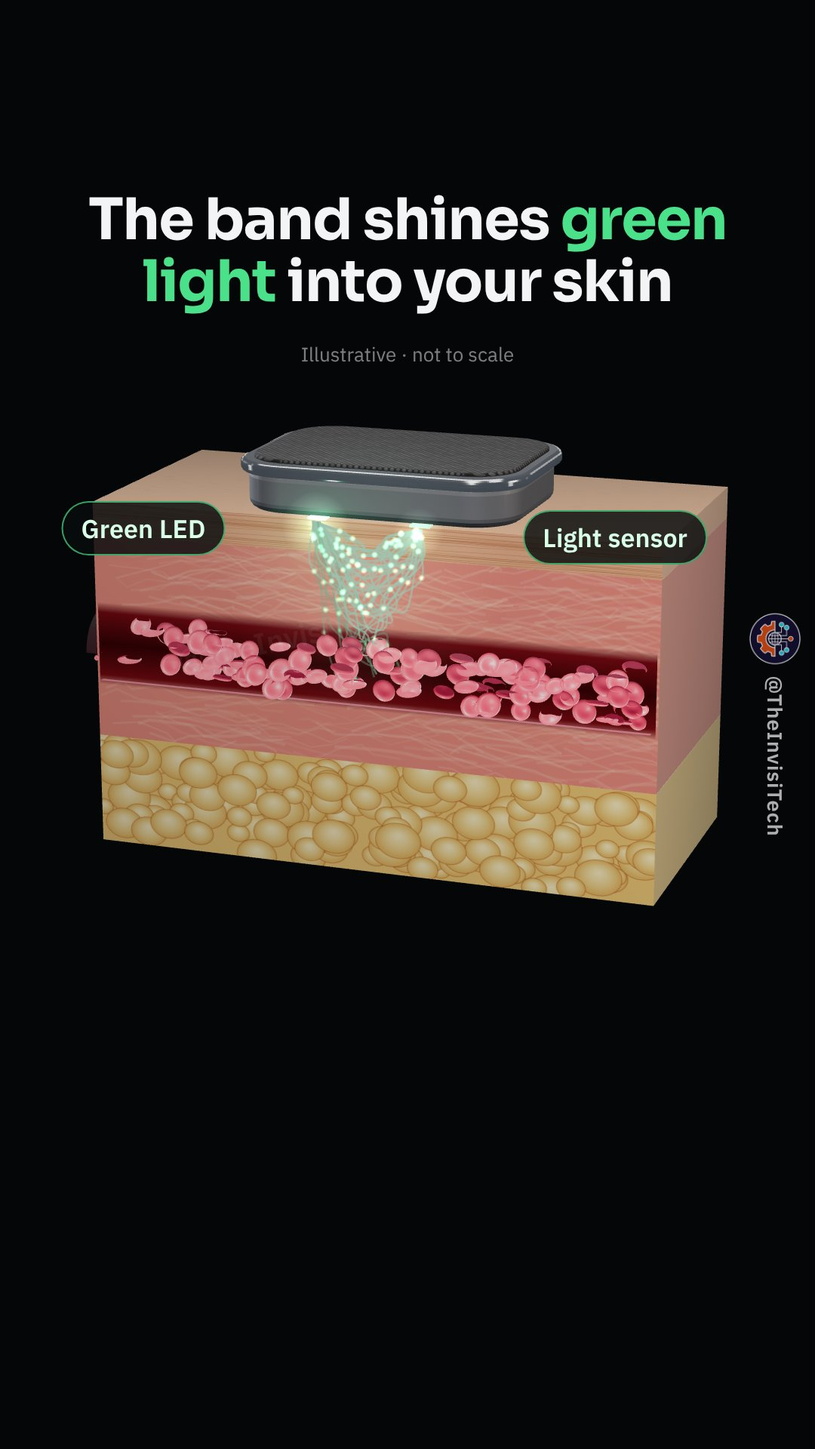
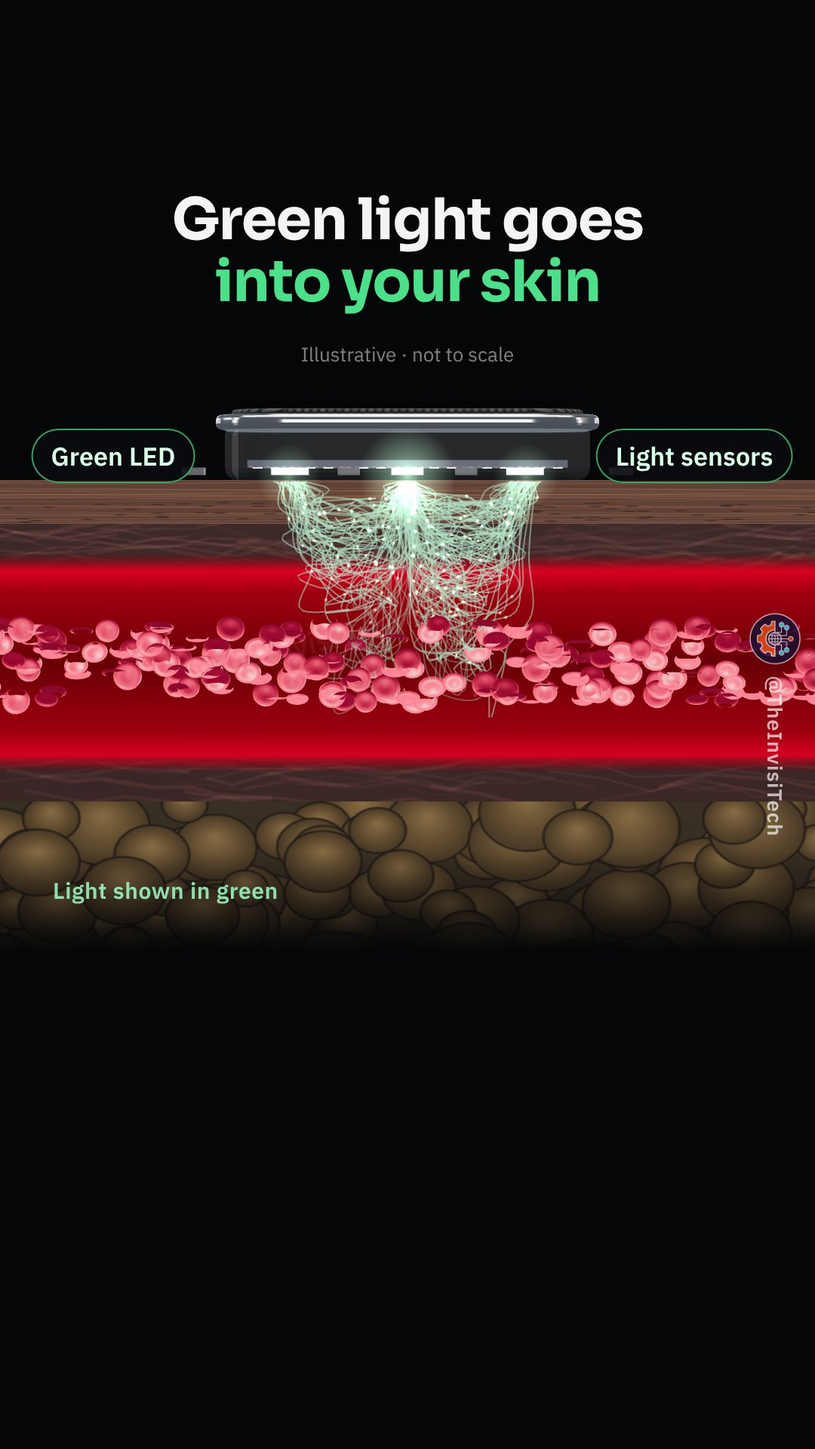
WHOOP pulse scene v2: side-on slice with dense green light, 26-readings flicker graph, beat-to-beat timing
Restyled after Harsh's reference (our own build): full-width dark tissue slice,
glass pod with navy sensor board, flicker graph with one dot per reading (26/s,
official), gaps between beats, phone heart rate. 5 stills for review.

Claude-Session: https://claude.ai/code/session_01GXcKc5WnFrVWBsHLe8YpAy

diff --git a/whoop-teardown/ppg-scene.html b/whoop-teardown/ppg-scene.html
@@ -3,20 +3,22 @@
 <link rel="preconnect" href="https://fonts.gstatic.com" crossorigin>
 <link rel="stylesheet" href="https://fonts.googleapis.com/css2?family=IBM+Plex+Mono:wght@400;500&family=IBM+Plex+Sans:wght@400;500;600&family=Sora:wght@500;600;700&display=swap">
 <style>
-/* 1080x1920 Short scene: how the band reads your pulse (green light -> blood -> dips -> heart rate). Reel safe zones: title 220-450, subject 450-1500, subtitles 1250-1450. */
+/* 1080x1920 Short scene: how the band reads your pulse. Side-on slice of the wrist, dense green light paths,
+   then the "flicker" signal (one dot per reading, 26 a second) and the timing between beats.
+   Reel safe zones: title 220-450, subject 450-1500 (kept above 1250 for subtitles), nothing right of 940 below 1100. */
 :root { --bg: #050607; --fg: #f2f4f6; --green: #4be08a; --red: #ff4d5e; --muted: #9aa4ad; --line: rgba(160,180,195,.18); color-scheme: dark; }
 html, body { margin: 0; height: 100%; background: var(--bg); overflow: hidden; }
-#stage { position: fixed; left: 50%; top: 50%; width: 1080px; height: 1920px; transform: translate(-50%, -50%) scale(var(--k, 1)); transform-origin: 50% 50%; background: var(--bg); overflow: hidden; font-family: "IBM Plex Sans", system-ui, sans-serif; color: var(--fg); }
+#stage { position: fixed; left: 50%; top: 50%; width: 1080px; height: 1920px; transform: translate(-50%, -50%) scale(var(--k, 1)); background: var(--bg); overflow: hidden; font-family: "IBM Plex Sans", system-ui, sans-serif; color: var(--fg); }
 #c { position: absolute; inset: 0; width: 1080px; height: 1920px; display: block; }
-#dim { position: absolute; inset: 0; background: rgba(4,5,6,.72); backdrop-filter: blur(10px); opacity: 0; }
+#fade { position: absolute; left: 0; right: 0; top: 1130px; height: 790px; background: linear-gradient(rgba(5,6,7,0), #050607 130px); }
+#dim { position: absolute; inset: 0; background: rgba(4,5,6,.86); opacity: 0; }
 #title { position: absolute; left: 80px; right: 80px; top: 250px; text-align: center; font: 700 76px/1.08 Sora, sans-serif; letter-spacing: -0.02em; text-wrap: balance; }
-#title em { font-style: normal; }
-#title .g { color: var(--green); } #title .r { color: var(--red); }
+#title em { font-style: normal; } #title .g { color: var(--green); } #title .r { color: var(--red); }
 #illus { position: absolute; left: 0; right: 0; top: 452px; text-align: center; font: 400 26px "IBM Plex Sans", sans-serif; color: rgba(220,226,232,.55); }
-.pill { position: absolute; left: 0; top: 0; padding: 12px 24px; border-radius: 999px; font: 600 34px "IBM Plex Sans", sans-serif; background: rgba(10,12,14,.82); border: 2px solid rgba(255,255,255,.18); white-space: nowrap; transform: translate(-50%, -50%); opacity: 0; }
+#legend { position: absolute; left: 70px; top: 1160px; font: 600 30px "IBM Plex Sans"; color: rgba(160,255,200,.85); letter-spacing: .02em; opacity: 0; }
+.pill { position: absolute; left: 0; top: 0; padding: 12px 24px; border-radius: 999px; font: 600 34px "IBM Plex Sans", sans-serif; background: rgba(10,12,14,.84); border: 2px solid rgba(255,255,255,.18); white-space: nowrap; transform: translate(-50%, -50%); opacity: 0; }
 .pill.g { border-color: rgba(75,224,138,.7); color: #d9ffe8; } .pill.r { border-color: rgba(255,77,94,.7); color: #ffe0e4; }
-#graph { position: absolute; left: 70px; top: 1070px; width: 830px; height: 176px; border-radius: 24px; background: rgba(10,12,14,.86); border: 2px solid var(--line); opacity: 0; }
-#graph canvas { position: absolute; inset: 0; }
+#gc { position: absolute; left: 40px; top: 520px; width: 920px; height: 720px; opacity: 0; }
 #phone { position: absolute; left: 330px; top: 500px; width: 420px; height: 730px; border-radius: 56px; background: #0b0d10; border: 3px solid #2a2f35; box-shadow: 0 30px 80px rgba(0,0,0,.6), inset 0 0 0 8px #050607; opacity: 0; overflow: hidden; }
 #phone .notch { position: absolute; left: 50%; top: 22px; width: 120px; height: 30px; margin-left: -60px; border-radius: 20px; background: #000; }
 #phone .lbl { position: absolute; left: 40px; top: 96px; font: 500 28px "IBM Plex Sans"; color: var(--muted); }
@@ -34,21 +36,22 @@ body.zones #zones { display: block; }
 </style>
 
 <div id="stage">
-  <canvas id="c" aria-label="Cutaway of a wrist under a fitness band: green light enters the skin, blood absorbs some of it, and the light that returns dips with every heartbeat."></canvas>
+  <canvas id="c" aria-label="Side view of a wrist under a fitness band: green light fans into the skin, blood absorbs some of it, and the returning light flickers with every heartbeat."></canvas>
+  <div id="fade"></div>
   <div id="dim"></div>
   <div id="title"></div>
   <div id="illus">Illustrative · not to scale</div>
+  <div id="legend">Light shown in green</div>
   <div class="pill g" id="pLed">Green LED</div>
-  <div class="pill g" id="pPd">Light sensor</div>
+  <div class="pill g" id="pPd">Light sensors</div>
   <div class="pill r" id="pArt">Blood vessel</div>
-  <div class="pill r" id="pCell">Red blood cells</div>
-  <div id="graph"><canvas id="gc" width="830" height="176"></canvas></div>
+  <canvas id="gc" width="920" height="720"></canvas>
   <div id="phone">
     <div class="notch"></div>
     <div class="lbl">Heart rate</div>
-    <div class="bpm" id="bpm">72</div>
+    <div class="bpm">72</div>
     <div class="unit">beats per minute</div>
-    <svg class="heart" viewBox="0 0 24 24"><path id="heartPath" fill="#ff4d5e" d="M12 21s-7.5-4.6-9.6-9.2C.9 8.4 3 4.8 6.6 4.8c2.1 0 3.6 1.2 5.4 3.3 1.8-2.1 3.3-3.3 5.4-3.3 3.6 0 5.7 3.6 4.2 7-2.1 4.6-9.6 9.2-9.6 9.2z"/></svg>
+    <svg class="heart" viewBox="0 0 24 24"><path fill="#ff4d5e" d="M12 21s-7.5-4.6-9.6-9.2C.9 8.4 3 4.8 6.6 4.8c2.1 0 3.6 1.2 5.4 3.3 1.8-2.1 3.3-3.3 5.4-3.3 3.6 0 5.7 3.6 4.2 7-2.1 4.6-9.6 9.2-9.6 9.2z"/></svg>
     <canvas id="pc" width="372" height="170"></canvas>
     <div class="foot">One dip in the light = one heartbeat. Dips per minute = your heart rate.</div>
   </div>
@@ -72,18 +75,17 @@ const stageEl = document.getElementById('stage');
 function fit() { stageEl.style.setProperty('--k', Math.min(innerWidth / W, innerHeight / H)); }
 addEventListener('resize', fit); fit();
 
-/* ---------------- renderer + scene (dark, key + rim lights) ---------------- */
+/* ---------------- renderer + scene: dark, key + rim lights ---------------- */
 const canvas = document.getElementById('c');
 const renderer = new THREE.WebGLRenderer({ canvas, antialias: true, preserveDrawingBuffer: RENDER });
 renderer.setPixelRatio(1); renderer.setSize(W, H, false);
 renderer.outputEncoding = THREE.sRGBEncoding; renderer.toneMapping = THREE.ACESFilmicToneMapping; renderer.toneMappingExposure = 1.0;
-const scene = new THREE.Scene(); scene.background = new THREE.Color(0x050607); scene.fog = new THREE.Fog(0x050607, 260, 520);
+const scene = new THREE.Scene(); scene.background = new THREE.Color(0x050607);
 const camera = new THREE.PerspectiveCamera(30, W / H, 1, 2000);
-const key = new THREE.SpotLight(0xfff1e0, 1.6, 0, 0.5, 0.9, 0); key.position.set(30, 260, 160); key.target.position.set(0, -6, 0); scene.add(key, key.target);
-const rim = new THREE.DirectionalLight(0xcfe0ff, 0.9); rim.position.set(-250, 40, -120); scene.add(rim);
-const rim2 = new THREE.DirectionalLight(0xffd2a8, 0.5); rim2.position.set(260, 30, -40); scene.add(rim2);
-const front = new THREE.DirectionalLight(0xffffff, 0.35); front.position.set(40, 30, 300); scene.add(front);
-const ledLight = new THREE.PointLight(0x2cff74, 0, 30, 2); scene.add(ledLight);
+const key = new THREE.SpotLight(0xfff1e0, 1.3, 0, 0.5, 0.9, 0); key.position.set(20, 260, 140); key.target.position.set(0, -10, 0); scene.add(key, key.target);
+const rim = new THREE.DirectionalLight(0xcfe0ff, 0.8); rim.position.set(-250, 60, -100); scene.add(rim);
+const rim2 = new THREE.DirectionalLight(0xffd2a8, 0.45); rim2.position.set(260, 40, -40); scene.add(rim2);
+const front = new THREE.DirectionalLight(0xffffff, 0.22); front.position.set(0, 20, 300); scene.add(front);
 (function env() {
   const es = new THREE.Scene(); es.add(new THREE.Mesh(new THREE.BoxGeometry(120, 70, 120), new THREE.MeshBasicMaterial({ color: 0x15181c, side: THREE.BackSide })));
   const panel = (w, h, k, x, y, z, ry = 0, rx = 0) => { const m = new THREE.Mesh(new THREE.PlaneGeometry(w, h), new THREE.MeshBasicMaterial({ color: new THREE.Color(0xffffff).multiplyScalar(k), side: THREE.DoubleSide })); m.position.set(x, y, z); m.rotation.set(rx, ry, 0); es.add(m); };
@@ -103,121 +105,145 @@ const clamp01 = t => Math.min(1, Math.max(0, t));
 const ease = t => t < 0.5 ? 4 * t * t * t : 1 - Math.pow(-2 * t + 2, 3) / 2;
 const glowTex = canvasTex(128, 128, (x, w, h) => { const g = x.createRadialGradient(64, 64, 0, 64, 64, 64); g.addColorStop(0, 'rgba(255,255,255,1)'); g.addColorStop(0.25, 'rgba(255,255,255,.55)'); g.addColorStop(1, 'rgba(255,255,255,0)'); x.fillStyle = g; x.fillRect(0, 0, w, h); });
 
-/* ---------------- skin cutaway block: cut face at z = 0 faces the camera ---------------- */
-const BX = 72, BZ = 34, EPI = 4, DER = 30, FAT = 44;   // layer depths (illustrative)
+/* ---------------- skin slice (dark, muted tissue so the green light reads) ---------------- */
+const BX = 110, BZ = 30, EPI = 4, DER = 30, FAT = 52;   // layer depths (illustrative)
 function layerTex(kind) {
   return canvasTex(1024, 256, (x, w, h) => {
     const r = rng(kind.length * 7);
-    if (kind === 'epi') { x.fillStyle = '#b98163'; x.fillRect(0, 0, w, h); for (let i = 0; i < 26; i++) { x.strokeStyle = `rgba(${90 + r() * 40},${50 + r() * 20},${35},.35)`; x.lineWidth = 2 + r() * 3; x.beginPath(); const y = r() * h; x.moveTo(0, y); for (let k = 0; k <= 16; k++) x.lineTo(k * w / 16, y + Math.sin(k * 0.9 + i) * 6); x.stroke(); } }
-    if (kind === 'der') { x.fillStyle = '#b8645c'; x.fillRect(0, 0, w, h); for (let i = 0; i < 260; i++) { x.strokeStyle = `rgba(${230},${170 + r() * 30},${160},${(.08 + r() * .12).toFixed(2)})`; x.lineWidth = 1.5 + r() * 2.5; x.beginPath(); let px = r() * w, py = r() * h; x.moveTo(px, py); for (let k = 0; k < 6; k++) { px += 20 + r() * 40; py += (r() - .5) * 26; x.lineTo(px, py); } x.stroke(); } }
-    if (kind === 'fat') { x.fillStyle = '#c99a4c'; x.fillRect(0, 0, w, h); for (let i = 0; i < 160; i++) { const cx = r() * w, cy = r() * h, rr = 18 + r() * 26; const g = x.createRadialGradient(cx, cy - rr * .3, 2, cx, cy, rr); g.addColorStop(0, '#f2d58a'); g.addColorStop(1, '#b8873c'); x.fillStyle = g; x.beginPath(); x.arc(cx, cy, rr, 0, 7); x.fill(); x.strokeStyle = 'rgba(120,70,30,.5)'; x.lineWidth = 2; x.stroke(); } }
+    if (kind === 'epi') { x.fillStyle = '#5a3e33'; x.fillRect(0, 0, w, h); for (let i = 0; i < 30; i++) { x.strokeStyle = `rgba(${130 + r() * 40},${95 + r() * 20},80,.35)`; x.lineWidth = 2 + r() * 3; x.beginPath(); const y = r() * h; x.moveTo(0, y); for (let k = 0; k <= 16; k++) x.lineTo(k * w / 16, y + Math.sin(k * 0.9 + i) * 6); x.stroke(); }
+      for (let i = 0; i < 120; i++) { x.fillStyle = 'rgba(30,20,18,.5)'; x.beginPath(); x.ellipse(r() * w, h * (.5 + r() * .5), 6, 3, 0, 0, 7); x.fill(); } }
+    if (kind === 'der') { x.fillStyle = '#3e2626'; x.fillRect(0, 0, w, h); for (let i = 0; i < 300; i++) { x.strokeStyle = `rgba(170,120,115,${(.06 + r() * .1).toFixed(2)})`; x.lineWidth = 1.5 + r() * 2.5; x.beginPath(); let px = r() * w, py = r() * h; x.moveTo(px, py); for (let k = 0; k < 6; k++) { px += 20 + r() * 40; py += (r() - .5) * 26; x.lineTo(px, py); } x.stroke(); } }
+    if (kind === 'fat') { x.fillStyle = '#3b3122'; x.fillRect(0, 0, w, h); for (let i = 0; i < 160; i++) { const cx = r() * w, cy = r() * h, rr = 18 + r() * 26; const g = x.createRadialGradient(cx, cy - rr * .3, 2, cx, cy, rr); g.addColorStop(0, '#7a6440'); g.addColorStop(1, '#4a3a22'); x.fillStyle = g; x.beginPath(); x.arc(cx, cy, rr, 0, 7); x.fill(); x.strokeStyle = 'rgba(20,14,8,.6)'; x.lineWidth = 2; x.stroke(); } }
   });
 }
-const skinTop = canvasTex(512, 512, (x, w, h) => { const r = rng(4); x.fillStyle = '#9c6a4f'; x.fillRect(0, 0, w, h); for (let i = 0; i < 3000; i++) { x.fillStyle = `rgba(70,40,26,${(r() * .18).toFixed(3)})`; x.beginPath(); x.arc(r() * w, r() * h, .6 + r(), 0, 7); x.fill(); } for (let i = 0; i < 70; i++) { x.strokeStyle = 'rgba(40,24,15,.35)'; x.lineWidth = 1; x.beginPath(); const px = r() * w, py = r() * h; x.moveTo(px, py); x.quadraticCurveTo(px + 14, py + (r() - .5) * 8, px + 30 + r() * 20, py + (r() - .5) * 10); x.stroke(); } });
+const skinTop = canvasTex(512, 512, (x, w, h) => { const r = rng(4); x.fillStyle = '#7a5442'; x.fillRect(0, 0, w, h); for (let i = 0; i < 3000; i++) { x.fillStyle = `rgba(50,30,20,${(r() * .2).toFixed(3)})`; x.beginPath(); x.arc(r() * w, r() * h, .6 + r(), 0, 7); x.fill(); } });
 skinTop.wrapS = skinTop.wrapT = THREE.RepeatWrapping; skinTop.repeat.set(4, 2);
 function layer(y0, y1, tex, color, top) {
-  const face = new THREE.MeshPhysicalMaterial({ map: tex, roughness: 0.55, clearcoat: 0.35, clearcoatRoughness: 0.4, sheen: new THREE.Color(0x401010) });
-  const side = new THREE.MeshStandardMaterial({ color, roughness: 0.7 });
-  const topM = top ? new THREE.MeshPhysicalMaterial({ map: skinTop, roughness: 0.5, clearcoat: 0.15, sheen: new THREE.Color(0x2a1208) }) : side;
+  const face = new THREE.MeshStandardMaterial({ map: tex, roughness: 0.75 });
+  const side = new THREE.MeshStandardMaterial({ color, roughness: 0.8 });
+  const topM = top ? new THREE.MeshPhysicalMaterial({ map: skinTop, roughness: 0.5, clearcoat: 0.15 }) : side;
   const m = new THREE.Mesh(new THREE.BoxGeometry(BX, y0 - y1, BZ), [side, side, topM, side, face, side]);
   m.position.set(0, (y0 + y1) / 2, -BZ / 2); scene.add(m); return m;
 }
-layer(0, -EPI, layerTex('epi'), 0x8e5a40, true);
-layer(-EPI, -DER, layerTex('der'), 0x7a3a34, false);
-layer(-DER, -FAT, layerTex('fat'), 0x8c6a30, false);
+layer(0, -EPI, layerTex('epi'), 0x3a281f, true);
+layer(-EPI, -DER, layerTex('der'), 0x2a1818, false);
+layer(-DER, -FAT, layerTex('fat'), 0x2a2216, false);
 
-/* ---------------- blood vessel (cut open along the face) + capillaries ---------------- */
-const ART = { y: -18, r: 4.6 };
-const artWall = new THREE.Mesh(new THREE.CylinderGeometry(1, 1, BX - 1.5, 48, 1, true, 0, Math.PI), new THREE.MeshPhysicalMaterial({ color: 0x9a1422, roughness: 0.3, clearcoat: 0.8, transparent: true, opacity: 0.22, side: THREE.DoubleSide, depthWrite: false }));
-artWall.rotation.z = Math.PI / 2; artWall.rotation.y = 0; artWall.position.set(0, ART.y, 0); scene.add(artWall);
-const artBack = new THREE.Mesh(new THREE.CylinderGeometry(1, 1, BX - 1.5, 48, 1, true, Math.PI, Math.PI), new THREE.MeshStandardMaterial({ color: 0x4a0a12, roughness: 0.6, side: THREE.BackSide }));
-artBack.rotation.z = Math.PI / 2; artBack.position.set(0, ART.y, 0); scene.add(artBack);
-// vessel channel painted on the cut face (dark red lumen with soft edges); swells with each beat
-const chanTex = canvasTex(16, 256, (x, w, h) => { const g = x.createLinearGradient(0, 0, 0, h); g.addColorStop(0, 'rgba(90,6,16,0)'); g.addColorStop(0.12, 'rgba(110,8,20,.95)'); g.addColorStop(0.5, 'rgba(70,4,12,1)'); g.addColorStop(0.88, 'rgba(110,8,20,.95)'); g.addColorStop(1, 'rgba(90,6,16,0)'); x.fillStyle = g; x.fillRect(0, 0, w, h); });
-const chan = new THREE.Mesh(new THREE.PlaneGeometry(BX - 0.6, 2), new THREE.MeshBasicMaterial({ map: chanTex, transparent: true, depthWrite: false })); chan.position.set(0, ART.y, 0.03); scene.add(chan);
-// red blood cells: biconcave discs flowing along the vessel
+/* ---------------- blood vessel: bright red band across the slice, packed with cells ---------------- */
+const ART = { y: -17, r: 4.4 };
+const chanTex = canvasTex(16, 256, (x, w, h) => { const g = x.createLinearGradient(0, 0, 0, h); g.addColorStop(0, 'rgba(120,10,20,0)'); g.addColorStop(0.08, 'rgba(200,30,40,1)'); g.addColorStop(0.18, 'rgba(150,14,26,1)'); g.addColorStop(0.5, 'rgba(110,8,18,1)'); g.addColorStop(0.82, 'rgba(150,14,26,1)'); g.addColorStop(0.92, 'rgba(200,30,40,1)'); g.addColorStop(1, 'rgba(120,10,20,0)'); x.fillStyle = g; x.fillRect(0, 0, w, h); });
+const chan = new THREE.Mesh(new THREE.PlaneGeometry(BX - 0.4, 2), new THREE.MeshBasicMaterial({ map: chanTex, transparent: true, depthWrite: false })); chan.position.set(0, ART.y, 0.03); scene.add(chan);
 const prof = []; for (let i = 0; i <= 14; i++) { const r = i / 14; prof.push(new THREE.Vector2(r, Math.sqrt(Math.max(0, 1 - r * r)) * (0.18 + 0.85 * r * r - 0.55 * r ** 4) * 0.55)); }
 for (let i = 14; i >= 0; i--) { const r = i / 14; prof.push(new THREE.Vector2(r, -Math.sqrt(Math.max(0, 1 - r * r)) * (0.18 + 0.85 * r * r - 0.55 * r ** 4) * 0.55)); }
-const cellGeo = new THREE.LatheGeometry(prof, 28); cellGeo.computeVertexNormals();
-const NCELL = 130;
-const cells = new THREE.InstancedMesh(cellGeo, new THREE.MeshPhysicalMaterial({ color: 0xb0101c, roughness: 0.38, clearcoat: 0.6, clearcoatRoughness: 0.25, emissive: 0x200105, envMapIntensity: 0.5 }), NCELL);
+const cellGeo = new THREE.LatheGeometry(prof, 24); cellGeo.computeVertexNormals();
+const NCELL = 260;
+const cells = new THREE.InstancedMesh(cellGeo, new THREE.MeshPhysicalMaterial({ color: 0x9a0c18, roughness: 0.45, clearcoat: 0.3, clearcoatRoughness: 0.4, emissive: 0x2a0206, envMapIntensity: 0.35 }), NCELL);
 scene.add(cells);
-const rCell = rng(55), CELL = [...Array(NCELL)].map(() => ({ x: rCell() * BX - BX / 2, a: rCell() * 6.283, rr: Math.sqrt(rCell()), ax: rCell() * 6.28, ay: rCell() * 6.28, sp: 0.8 + rCell() * 0.5, s: 0.95 + rCell() * 0.3 }));
+const rCell = rng(55), CELL = [...Array(NCELL)].map(() => ({ x: rCell() * BX - BX / 2, v: rCell() * 2 - 1, z: rCell(), ax: rCell() * 6.28, ay: rCell() * 6.28, sp: 0.8 + rCell() * 0.5, s: 0.9 + rCell() * 0.3 }));
 const _m = new THREE.Matrix4(), _q = new THREE.Quaternion(), _e = new THREE.Euler(), _p = new THREE.Vector3(), _s = new THREE.Vector3();
 
-/* ---------------- the pod sitting on the skin (front edge on the cut face) ---------------- */
-const pod = new THREE.Group(); pod.position.set(0, 0, -12.6); scene.add(pod);
+/* ---------------- the pod, in glass, showing its navy sensor board (layout illustrative) ---------------- */
+const pod = new THREE.Group(); pod.position.set(0, 0, -11); scene.add(pod);
 const chrome = new THREE.MeshStandardMaterial({ color: 0xeef0f2, metalness: 1, roughness: 0.1 });
+const glassM = new THREE.MeshPhysicalMaterial({ color: 0x9fb8c8, roughness: 0.1, metalness: 0, transparent: true, opacity: 0.16, depthWrite: false, clearcoat: 1 });
+const body = new THREE.Mesh(pillow(34.7, 22, 6, 5.4, 1.2), glassM); body.position.y = 2.7; pod.add(body);
+const rimm = new THREE.Mesh(pillow(36.4, 23.6, 6.8, 1.4, 0.55), chrome); rimm.position.y = 5.5; pod.add(rimm);
 const knitT = canvasTex(256, 256, (x, w, h) => { x.fillStyle = '#060607'; x.fillRect(0, 0, w, h); const r = rng(13), n = 8, c = w / n; for (let j = 0; j < n * 2; j++) for (let i = -1; i <= n; i++) { const l = 44 + r() * 14; x.fillStyle = `rgb(${l},${l},${l + 2})`; x.beginPath(); x.ellipse((i + (j % 2) * .5 + .5) * c, (j + .5) * c / 2, c * .36, c * .3, 0, 0, 7); x.fill(); } });
 knitT.wrapS = knitT.wrapT = THREE.RepeatWrapping; knitT.repeat.set(1 / 6, 1 / 6);
-const podBody = new THREE.Mesh(pillow(34.7, 24, 6, 5.2, 1.2), new THREE.MeshPhysicalMaterial({ color: 0x141518, roughness: 0.6, clearcoat: 0.2 })); podBody.position.y = 2.6; pod.add(podBody);
-const rim2m = new THREE.Mesh(pillow(36.6, 25.9, 6.8, 1.6, 0.6), chrome); rim2m.position.y = 5.4; pod.add(rim2m);
-const knit = new THREE.Mesh(pillow(33.6, 22.8, 5.6, 1.0, 0.35), new THREE.MeshPhysicalMaterial({ map: knitT, roughness: 0.9 })); knit.position.y = 6.15; pod.add(knit);
-// LED + light sensor windows on the underside, at the front edge (illustrative positions)
-const LED = new THREE.Vector3(-6.5, 0.05, -0.6), PD = new THREE.Vector3(6.5, 0.05, -0.6);
-const ledDie = new THREE.Mesh(new THREE.BoxGeometry(2.4, 0.3, 1.2), new THREE.MeshStandardMaterial({ color: 0x0a1a0e, emissive: 0x2cff74, emissiveIntensity: 0 })); ledDie.position.copy(LED); scene.add(ledDie);
-const pdDie = new THREE.Mesh(new THREE.BoxGeometry(2.6, 0.3, 1.2), new THREE.MeshStandardMaterial({ color: 0x1d1f3c, metalness: 0.5, roughness: 0.2, emissive: 0x2cff74, emissiveIntensity: 0 })); pdDie.position.copy(PD); scene.add(pdDie);
+const knit = new THREE.Mesh(pillow(33.4, 21, 5.6, 1.0, 0.35), new THREE.MeshPhysicalMaterial({ map: knitT, roughness: 0.9 })); knit.position.y = 6.2; pod.add(knit);
+const navyT = canvasTex(512, 64, (x, w, h) => { x.fillStyle = '#0a1638'; x.fillRect(0, 0, w, h); x.fillStyle = '#d9ae55'; for (let i = 0; i < 40; i++) x.fillRect(i * 13 + 3, h - 6, 7, 4); });
+const board = new THREE.Mesh(new THREE.BoxGeometry(30, 0.7, 18), new THREE.MeshPhysicalMaterial({ map: navyT, roughness: 0.4, clearcoat: 0.6 })); board.position.y = 1.55; pod.add(board);
+const chip = (x, w, mat) => { const m = new THREE.Mesh(new THREE.BoxGeometry(w, 0.7, 3), mat); m.position.set(x, 0.85, 9); pod.add(m); return m; };
+const LEDX = 0, PDX = [-11, 11];
+const ledMat = new THREE.MeshStandardMaterial({ color: 0x0a1a0e, emissive: 0x2cff74, emissiveIntensity: 0 });
+const pdMat = new THREE.MeshStandardMaterial({ color: 0x1d1f3c, metalness: 0.5, roughness: 0.2, emissive: 0x2cff74, emissiveIntensity: 0 });
+chip(LEDX, 3, ledMat); PDX.forEach(x => chip(x, 3.4, pdMat));
+[-20, -5.5, 5.5, 20].forEach(x => chip(x, 2, new THREE.MeshStandardMaterial({ color: 0x0c0d10, roughness: 0.4 })));
+for (let i = 0; i < 18; i++) { const g = new THREE.Mesh(new THREE.BoxGeometry(0.9, 0.12, 0.6), new THREE.MeshStandardMaterial({ color: 0xd9ae55, metalness: 1, roughness: 0.25 })); g.position.set(-14 + i * 1.65, 1.15, 9.5); pod.add(g); }
 const glow = (color, size) => { const s = new THREE.Sprite(new THREE.SpriteMaterial({ map: glowTex, color, transparent: true, blending: THREE.AdditiveBlending, depthWrite: false, depthTest: false })); s.scale.set(size, size, 1); scene.add(s); return s; };
-const ledGlow = glow(0x1cff5e, 8); ledGlow.position.set(LED.x, -0.6, 0.4);
-const pdGlow = glow(0x1cff5e, 6); pdGlow.position.set(PD.x, -0.6, 0.4);
-const skinGlow = glow(0x1cff5e, 34); skinGlow.position.set(0, -6, 0.3); skinGlow.material.opacity = 0;
+const ledGlow = glow(0x1cff5e, 9); ledGlow.position.set(LEDX, 0.4, 0.5);
+const pdGlows = PDX.map(x => { const g = glow(0x1cff5e, 6); g.position.set(x, 0.4, 0.5); return g; });
 
-/* ---------------- light paths: "banana" random walks from the LED to the sensor ---------------- */
+/* ---------------- light paths: dense scattering walks from the LED to the sensors ---------------- */
 const rP = rng(7), PATHS = [];
-for (let i = 0; i < 46; i++) {
-  const deep = rP(), D = 3 + deep * deep * 17, absorbed = D > 13 && rP() < 0.85;
-  const pts = [new THREE.Vector3(LED.x + (rP() - .5), -0.2, 0.3)];
-  const n = 7; for (let k = 1; k < n; k++) { const a = k / n, xx = LED.x + (PD.x - LED.x) * a + (rP() - .5) * 5, yy = -D * Math.sin(a * Math.PI) * (0.85 + rP() * .3) - 0.3; pts.push(new THREE.Vector3(xx, yy, 0.3)); }
-  if (absorbed) { pts.length = 4 + Math.floor(rP() * 2); pts.push(new THREE.Vector3(pts[pts.length - 1].x + (rP() - .5) * 3, ART.y + (rP() - .5) * 2, 0.4)); }
-  else pts.push(new THREE.Vector3(PD.x + (rP() - .5), -0.2, 0.3));
+for (let i = 0; i < 150; i++) {
+  const side = rP() < 0.5 ? 0 : 1, tx = PDX[side] + (rP() - .5) * 3, deep = rP(), D = 2.5 + Math.pow(deep, 1.4) * 19;
+  const absorbed = D > ART.y * -1 - ART.r - 1 && rP() < 0.8;
+  const pts = [new THREE.Vector3(LEDX + (rP() - .5) * 1.5, -0.1, 0.3)], n = 11;
+  for (let k = 1; k < n; k++) { const a = k / n, jit = 0.6 + 1.6 * Math.sin(a * Math.PI);
+    pts.push(new THREE.Vector3(LEDX + (tx - LEDX) * a + (rP() - .5) * 3 * jit, -D * Math.pow(Math.sin(a * Math.PI), 0.8) * (0.85 + rP() * .3) - 0.2 + (rP() - .5) * jit, 0.3)); }
+  if (absorbed) { const k = 5 + Math.floor(rP() * 2); pts.length = k; pts.push(new THREE.Vector3(pts[k - 1].x + (rP() - .5) * 2, ART.y + ART.r * (rP() * .8), 0.35)); }
+  else pts.push(new THREE.Vector3(tx, -0.1, 0.3));
   const curve = new THREE.CatmullRomCurve3(pts), len = curve.getLength();
-  const line = new THREE.Mesh(new THREE.TubeGeometry(curve, 60, 0.13, 5), new THREE.MeshBasicMaterial({ color: absorbed ? 0x169a4c : 0x3dff86, transparent: true, opacity: 0, depthWrite: false }));
-  scene.add(line);
-  PATHS.push({ curve, len, absorbed, line, ph: rP(), sp: 12 + rP() * 8 });
+  const tube = new THREE.Mesh(new THREE.TubeGeometry(curve, 80, 0.07, 4), new THREE.MeshBasicMaterial({ color: 0x35ff7a, transparent: true, opacity: 0, depthWrite: false }));
+  scene.add(tube);
+  PATHS.push({ curve, len, absorbed, tube, ph: rP(), sp: 14 + rP() * 10 });
 }
-const NPH = PATHS.length * 2;
+const NPH = PATHS.length;
 const phGeo = new THREE.BufferGeometry(); phGeo.setAttribute('position', new THREE.Float32BufferAttribute(new Float32Array(NPH * 3), 3)); phGeo.setAttribute('color', new THREE.Float32BufferAttribute(new Float32Array(NPH * 3), 3));
-const photons = new THREE.Points(phGeo, new THREE.PointsMaterial({ size: 3.2, map: glowTex, vertexColors: true, transparent: true, blending: THREE.AdditiveBlending, depthWrite: false, sizeAttenuation: true }));
-scene.add(photons);
+scene.add(new THREE.Points(phGeo, new THREE.PointsMaterial({ size: 1.6, map: glowTex, vertexColors: true, transparent: true, blending: THREE.AdditiveBlending, depthWrite: false })));
 
-/* ---------------- heartbeat ---------------- */
-const PERIOD = 60 / 72;
-function beat(t) { const ph = ((t % PERIOD) + PERIOD) % PERIOD / PERIOD; return Math.exp(-Math.pow((ph - 0.14) / 0.075, 2)) + 0.35 * Math.exp(-Math.pow((ph - 0.42) / 0.09, 2)); }
-const blood = t => 0.5 * beat(t) + 0.5 * beat(t - 0.05);     // blood volume under the sensor (smoothed)
-const lightBack = t => 1 - 0.55 * blood(t);                  // reflected light: dips at every beat
+/* ---------------- heartbeat with natural beat-to-beat variation ---------------- */
+const IBI = [0.83, 0.80, 0.86, 0.82, 0.79, 0.85, 0.81, 0.84];   // seconds between beats (example values)
+const BEATS = []; { let tb = -4; for (let i = 0; tb < 60; i++) { BEATS.push(tb); tb += IBI[i % IBI.length]; } }
+function beatIdx(t) { let i = 0; while (i < BEATS.length - 2 && BEATS[i + 1] <= t) i++; return i; }
+function beat(t) { const i = beatIdx(t), ph = (t - BEATS[i]) / (BEATS[i + 1] - BEATS[i]); return Math.exp(-Math.pow((ph - 0.14) / 0.075, 2)) + 0.35 * Math.exp(-Math.pow((ph - 0.42) / 0.09, 2)); }
+const blood = t => 0.5 * beat(t) + 0.5 * beat(t - 0.05);
+const lightBack = t => 1 - 0.55 * blood(t);
+const troughAt = i => BEATS[i] + 0.14 * (BEATS[i + 1] - BEATS[i]) + 0.025;   // where the reflected light is lowest
+const SPS = 26;   // readings per second (WHOOP, official)
 
 /* ---------------- overlay ---------------- */
 const $ = id => document.getElementById(id);
-const PILLS = { pLed: [LED.x - 1, -2, 0.4], pPd: [PD.x + 1, -2, 0.4], pArt: [-22, ART.y + 3, 2.4], pCell: [14, ART.y - 3, 2.6] };
-const PILL_OFF = { pLed: [-250, -10], pPd: [250, -10], pArt: [-30, -120], pCell: [20, 140] };
+const PILLS = { pLed: [-19, 3, 0.4], pPd: [19, 3, 0.4], pArt: [-19, ART.y, 1] };
+const PILL_OFF = { pLed: [-120, 10], pPd: [130, 10], pArt: [0, 0] };
 function placePills(alpha) {
   for (const id in PILLS) { const v = new THREE.Vector3(...PILLS[id]).project(camera); const el = $(id);
     const x = (v.x * .5 + .5) * W + PILL_OFF[id][0], y = (-v.y * .5 + .5) * H + PILL_OFF[id][1];
-    el.style.left = Math.min(Math.max(x, 190), 860) + 'px'; el.style.top = y + 'px'; el.style.opacity = (alpha[id] || 0).toFixed(3); }
+    el.style.left = Math.min(Math.max(x, 150), 920) + 'px'; el.style.top = y + 'px'; el.style.opacity = (alpha[id] || 0).toFixed(3); }
 }
-function drawWave(cv, t, span, col, opts = {}) {
-  const x = cv.getContext('2d'), w = cv.width, h = cv.height; x.clearRect(0, 0, w, h);
-  const pad = opts.pad || 0, top = opts.top || 20, bot = opts.bot || 20;
-  x.strokeStyle = 'rgba(255,255,255,.07)'; x.lineWidth = 2; for (let i = 1; i < 4; i++) { x.beginPath(); x.moveTo(pad, top + (h - top - bot) * i / 4); x.lineTo(w - pad, top + (h - top - bot) * i / 4); x.stroke(); }
-  x.beginPath(); for (let i = 0; i <= 300; i++) { const tt = t - span + span * i / 300; const v = (lightBack(tt) - 0.45) / 0.55; const px = pad + (w - 2 * pad) * i / 300, py = top + (1 - v) * (h - top - bot); i ? x.lineTo(px, py) : x.moveTo(px, py); }
-  x.strokeStyle = col; x.lineWidth = opts.lw || 5; x.lineJoin = 'round'; x.shadowColor = col; x.shadowBlur = 14; x.stroke(); x.shadowBlur = 0;
-  const v = (lightBack(t) - 0.45) / 0.55; x.fillStyle = '#fff'; x.beginPath(); x.arc(w - pad, top + (1 - v) * (h - top - bot), 7, 0, 7); x.fill();
-  if (opts.marks) { for (let k = Math.ceil((t - span) / PERIOD); k * PERIOD < t; k++) { const tt = k * PERIOD + 0.14 * PERIOD; if (tt < t - span || tt > t) continue; const px = pad + (w - 2 * pad) * (tt - t + span) / span; x.fillStyle = 'rgba(255,77,94,.9)'; x.beginPath(); x.arc(px, h - 8, 5, 0, 7); x.fill(); } }
+// big "flicker" graph: one dot per reading; in step 4, lines drop from each dip to a timeline of beat-to-beat gaps
+function drawFlicker(t, a, timing) {
+  const cv = $('gc'), x = cv.getContext('2d'), w = cv.width, h = cv.height; cv.style.opacity = a.toFixed(3); if (a < 0.01) return;
+  x.clearRect(0, 0, w, h);
+  const span = 3.6, L = 40, R = w - 30, top = 90, bot = 380, tl = 560;
+  const X = tt => L + (R - L) * (tt - (t - span)) / span, Y = v => top + (1 - (v - 0.4) / 0.62) * (bot - top);
+  x.font = '600 28px "IBM Plex Sans"'; x.fillStyle = 'rgba(220,226,232,.8)'; x.fillText('Light coming back', L, 40);
+  x.textAlign = 'right'; x.fillStyle = 'rgba(160,255,200,.9)'; x.fillText('1 dot = 1 reading · 26 a second', R, 40); x.textAlign = 'left';
+  x.strokeStyle = 'rgba(255,255,255,.06)'; x.lineWidth = 2; for (let i = 0; i <= 4; i++) { const yy = top + (bot - top) * i / 4; x.beginPath(); x.moveTo(L, yy); x.lineTo(R, yy); x.stroke(); }
+  x.beginPath(); for (let i = 0; i <= 400; i++) { const tt = t - span + span * i / 400, px = X(tt), py = Y(lightBack(tt)); i ? x.lineTo(px, py) : x.moveTo(px, py); }
+  x.strokeStyle = 'rgba(75,224,138,.55)'; x.lineWidth = 3; x.shadowColor = '#4be08a'; x.shadowBlur = 16; x.stroke(); x.shadowBlur = 0;
+  for (let n = Math.ceil((t - span) * SPS); n / SPS <= t; n++) { const tt = n / SPS; x.fillStyle = '#9dffc4'; x.beginPath(); x.arc(X(tt), Y(lightBack(tt)), 4.2, 0, 7); x.fill(); }
+  x.fillStyle = '#fff'; x.beginPath(); x.arc(X(t), Y(lightBack(t)), 9, 0, 7); x.fill();
+  if (timing > 0.01) {
+    x.globalAlpha = timing;
+    x.strokeStyle = 'rgba(255,255,255,.12)'; x.lineWidth = 2; x.beginPath(); x.moveTo(L, tl); x.lineTo(R, tl); x.stroke();
+    let prev = null;
+    for (let i = beatIdx(t - span); i < BEATS.length - 1; i++) { const tr = troughAt(i); if (tr > t) break; if (tr < t - span) continue;
+      const px = X(tr), py = Y(lightBack(tr));
+      x.strokeStyle = 'rgba(75,224,138,.35)'; x.lineWidth = 2; x.setLineDash([6, 8]); x.beginPath(); x.moveTo(px, py + 12); x.lineTo(px, tl - 30); x.stroke(); x.setLineDash([]);
+      const g = x.createLinearGradient(0, tl - 90, 0, tl); g.addColorStop(0, 'rgba(75,224,138,0)'); g.addColorStop(1, 'rgba(75,224,138,1)');
+      x.fillStyle = g; x.fillRect(px - 3, tl - 90, 6, 90); x.fillStyle = '#fff'; x.beginPath(); x.arc(px, tl - 90, 6, 0, 7); x.fill();
+      if (prev !== null) { const mx = (prev + px) / 2; x.strokeStyle = 'rgba(255,77,94,.85)'; x.lineWidth = 3; x.beginPath(); x.moveTo(prev + 10, tl + 34); x.lineTo(px - 10, tl + 34); x.stroke();
+        x.fillStyle = '#ffd6db'; x.font = '600 30px "IBM Plex Sans"'; x.textAlign = 'center'; x.fillText((tr - troughAt(i - 1)).toFixed(2) + ' s', mx, tl + 82); x.textAlign = 'left'; }
+      prev = px; }
+    x.globalAlpha = 1;
+  }
 }
-const gctx = $('gc').getContext('2d');
-function drawGraph(t, a) {
-  $('graph').style.opacity = a.toFixed(3); if (a < 0.01) return;
-  drawWave($('gc'), t, 3.2, '#4be08a', { pad: 30, top: 62, bot: 22, marks: true });
-  gctx.fillStyle = 'rgba(220,226,232,.75)'; gctx.font = '600 26px "IBM Plex Sans"'; gctx.fillText('Light coming back', 30, 40);
-  gctx.fillStyle = 'rgba(255,77,94,.9)'; gctx.textAlign = 'right'; gctx.fillText('dip = heartbeat', 800, 40); gctx.textAlign = 'left';
+function drawPhoneWave(t) {
+  const cv = $('pc'), x = cv.getContext('2d'), w = cv.width, h = cv.height; x.clearRect(0, 0, w, h);
+  x.beginPath(); for (let i = 0; i <= 300; i++) { const tt = t - 3.2 + 3.2 * i / 300, px = 16 + (w - 32) * i / 300, py = 16 + (1 - (lightBack(tt) - 0.45) / 0.55) * (h - 42); i ? x.lineTo(px, py) : x.moveTo(px, py); }
+  x.strokeStyle = '#ff4d5e'; x.lineWidth = 4; x.shadowColor = '#ff4d5e'; x.shadowBlur = 14; x.stroke(); x.shadowBlur = 0;
 }
 
 /* ---------------- timeline ---------------- */
+const SIDE = (dist, oy, ty = -15) => t => ({ tx: 0, ty, az: 0, el: 0.06, dist, oy });
 const SEGS = [
-  { dur: 5.5, title: 'The band shines <em class="g">green light</em> into your skin', pose: t => ({ tx: 5, ty: -16, az: 0.42 - 0.12 * t, el: 0.32 - 0.06 * t, dist: 335 - 15 * t, oy: 90 }), led: t => sstep(0.05, 0.25, t), paths: t => sstep(0.25, 0.9, t), pills: t => ({ pLed: sstep(.15, .3, t), pPd: sstep(.55, .7, t) }) },
-  { dur: 5, title: 'Your <em class="r">blood</em> soaks up some of that light', pose: t => ({ tx: 5, ty: -15, az: 0.26 - 0.06 * t, el: 0.14, dist: 300 - 12 * t, oy: 90 }), led: () => 1, paths: () => 1, pills: t => ({ pArt: sstep(.1, .25, t), pCell: sstep(.35, .5, t) }) },
-  { dur: 6, title: 'Each heartbeat = <em class="g">a dip in the light</em>', pose: t => ({ tx: 5, ty: -16, az: 0.3 + 0.06 * t, el: 0.2, dist: 360, oy: 215 }), led: () => 1, paths: () => 1, pills: () => ({}), graph: t => sstep(0.05, 0.2, t) },
-  { dur: 6, title: '<em class="r">Count the dips</em> and you get your heart rate', pose: t => ({ tx: 0, ty: -16, az: 0.36 + 0.05 * t, el: 0.22, dist: 340 + 20 * t, oy: 200 }), led: () => 1, paths: () => 1, pills: () => ({}), phone: t => sstep(0.05, 0.25, t) },
+  { dur: 5.5, title: 'Green light goes <em class="g">into your skin</em>', pose: t => ({ tx: 0, ty: -15, az: 0.16 - 0.16 * ease(clamp01(t * 1.6)), el: 0.2 - 0.14 * ease(clamp01(t * 1.6)), dist: 262 - 12 * t, oy: 110 }), paths: t => sstep(0.15, 0.7, t), pills: t => ({ pLed: sstep(.12, .25, t), pPd: sstep(.5, .65, t) }), legend: t => sstep(0.4, 0.6, t) },
+  { dur: 5.5, title: 'Each heartbeat, <em class="r">more blood</em> soaks up the light', pose: t => ({ tx: 0, ty: -15, az: 0, el: 0.06, dist: 250 - 8 * t, oy: 110 }), paths: () => 1, pills: t => ({ pArt: sstep(.1, .25, t) }), legend: () => 1 },
+  { dur: 6, title: 'The sensor reads the light <em class="g">26 times a second</em>', pose: SIDE(245, 110), paths: () => 1, pills: () => ({}), dim: t => sstep(0.02, 0.15, t), graph: t => sstep(0.05, 0.2, t), timing: () => 0 },
+  { dur: 6.5, title: 'Then it times the <em class="g">gap between every beat</em>', pose: SIDE(245, 110), paths: () => 1, pills: () => ({}), dim: () => 1, graph: () => 1, timing: t => sstep(0.05, 0.25, t) },
+  { dur: 6, title: '<em class="r">Count the beats</em> and you get your heart rate', pose: SIDE(245, 110), paths: () => 1, pills: () => ({}), dim: () => 1, graph: t => 1 - sstep(0, 0.15, t), timing: () => 1, phone: t => sstep(0.08, 0.28, t) },
 ];
 let acc = 0; SEGS.forEach(s => { s.start = acc; acc += s.dur; }); const TOTAL = acc;
 function segAt(t) { for (let i = SEGS.length - 1; i >= 0; i--) if (t >= SEGS[i].start) return i; return 0; }
@@ -228,41 +254,37 @@ function renderAt(t) {
   let P = s.pose(u); if (prev) { const b = ease(clamp01((t - s.start) / 1.2)); const A = prev.pose(1); for (const k in P) P[k] = A[k] + (P[k] - A[k]) * b; }
   const c = Math.cos(P.el); camera.position.set(P.tx + P.dist * c * Math.sin(P.az), P.ty + P.dist * Math.sin(P.el), P.dist * c * Math.cos(P.az));
   camera.lookAt(P.tx, P.ty, 0); camera.setViewOffset(W, H, 0, P.oy, W, H); camera.updateProjectionMatrix();
-  // title (fade at segment edges)
   if (si !== lastTitle) { $('title').innerHTML = s.title; lastTitle = si; }
-  $('title').style.opacity = Math.min(clamp01((t - s.start) / 0.35), clamp01((s.start + s.dur - t) / 0.3) + (si === SEGS.length - 1 ? 1 : 0)).toFixed(3);
-  // LED + light
-  const L = s.led(u), pathsA = s.paths(u), bl = blood(t), back = lightBack(t);
-  ledDie.material.emissiveIntensity = 3 * L; ledGlow.material.opacity = 0.55 * L; ledLight.intensity = 1.2 * L; ledLight.position.set(LED.x, -1, 1.5);
-  skinGlow.material.opacity = 0.18 * L; pdGlow.material.opacity = 0.5 * L * back * pathsA; pdDie.material.emissiveIntensity = 1.6 * L * back * pathsA;
-  // vessel swells with each beat
-  const rr = ART.r * (1 + 0.16 * bl); artWall.scale.set(rr, 1, rr); artBack.scale.set(rr, 1, rr); chan.scale.set(1, rr * 1.15, 1);
-  // cells flow (surge on the beat)
+  $('title').style.opacity = Math.min(clamp01((t - s.start) / 0.35), si === SEGS.length - 1 ? 1 : clamp01((s.start + s.dur - t) / 0.3)).toFixed(3);
+  const pa = s.paths(u), bl = blood(t), back = lightBack(t);
+  ledMat.emissiveIntensity = 3.5 * pa; ledGlow.material.opacity = 0.9 * pa;
+  pdMat.emissiveIntensity = 1.4 * pa * back; pdGlows.forEach(g => g.material.opacity = 0.55 * pa * back);
+  chan.scale.set(1, ART.r * 2.3 * (1 + 0.16 * bl), 1);
+  const rr = ART.r * (1 + 0.16 * bl);
   CELL.forEach((cl, i) => {
-    const x = ((cl.x + t * 10 * cl.sp + bl * 2 * cl.sp + 600) % BX) - BX / 2, rad = rr * 0.78 * cl.rr, ang = cl.a + t * 0.3;
-    _p.set(x, ART.y + Math.sin(ang) * rad, Math.abs(Math.cos(ang)) * rad * 0.9 + 0.2);
-    _q.setFromEuler(_e.set(cl.ax + t * 1.3 * cl.sp, cl.ay + t * 0.8, 0)); _s.setScalar(1.25 * cl.s * sstep(BX / 2 - 0.5, BX / 2 - 3, Math.abs(x)));
-    cells.setMatrixAt(i, _m.compose(_p, _q, _s));
+    const x = ((cl.x + t * 9 * cl.sp + bl * 2.5 * cl.sp + 600) % BX) - BX / 2;
+    _p.set(x, ART.y + cl.v * rr * 0.82, 0.25 + cl.z * 1.2);
+    _q.setFromEuler(_e.set(cl.ax + t * 1.2 * cl.sp, cl.ay + t * 0.7, 0));
+    _s.setScalar(1.15 * cl.s * sstep(BX / 2 - 0.3, BX / 2 - 2.5, Math.abs(x))); cells.setMatrixAt(i, _m.compose(_p, _q, _s));
   }); cells.instanceMatrix.needsUpdate = true;
-  // photons: deep paths get soaked up more when blood volume is high
   const pos = phGeo.attributes.position.array, col = phGeo.attributes.color.array;
   PATHS.forEach((p, i) => {
-    p.line.material.opacity = (p.absorbed ? 0.45 + 0.3 * bl : 0.75 * (0.45 + 0.55 * back)) * pathsA;
-    for (let k = 0; k < 2; k++) { const j = i * 2 + k, f = ((t * p.sp / p.len + p.ph + k * 0.5) % 1 + 1) % 1, pt = p.curve.getPointAt(f);
-      pos[j * 3] = pt.x; pos[j * 3 + 1] = pt.y; pos[j * 3 + 2] = pt.z + 0.2;
-      const fade = p.absorbed ? (1 - sstep(0.75, 1, f)) * (0.7 + 0.6 * bl) : (0.55 + 0.45 * back);
-      const g = fade * pathsA * sstep(0, 0.06, f);
-      if (p.absorbed && f > 0.6) { col[j * 3] = 0.02 * g; col[j * 3 + 1] = 0.5 * g; col[j * 3 + 2] = 0.15 * g; } else { col[j * 3] = 0.05 * g; col[j * 3 + 1] = 0.9 * g; col[j * 3 + 2] = 0.3 * g; } }
+    p.tube.material.opacity = (p.absorbed ? 0.3 + 0.25 * bl : 0.55 * (0.45 + 0.55 * back)) * pa;
+    const f = ((t * p.sp / p.len + p.ph) % 1 + 1) % 1, pt = p.curve.getPointAt(f);
+    pos[i * 3] = pt.x; pos[i * 3 + 1] = pt.y; pos[i * 3 + 2] = pt.z + 0.15;
+    const g = pa * sstep(0, 0.05, f) * (p.absorbed ? 1 - sstep(0.8, 1, f) : 1);
+    col[i * 3] = 0.25 * g; col[i * 3 + 1] = 1.0 * g; col[i * 3 + 2] = 0.4 * g;
   });
   phGeo.attributes.position.needsUpdate = true; phGeo.attributes.color.needsUpdate = true;
   renderer.render(scene, camera);
-  // overlays
   placePills(s.pills(u));
-  drawGraph(t, s.graph ? s.graph(u) : 0);
+  $('legend').style.opacity = ((s.legend ? s.legend(u) : 0)).toFixed(3);
+  const dimA = s.dim ? s.dim(u) : 0; $('dim').style.opacity = dimA.toFixed(3);
+  $('illus').style.opacity = (1 - dimA).toFixed(3);
+  drawFlicker(t, s.graph ? s.graph(u) : 0, s.timing ? s.timing(u) : 0);
   const ph = s.phone ? s.phone(u) : 0;
-  $('phone').style.opacity = ph.toFixed(3); $('phone').style.transform = `translateY(${(1 - ph) * 60}px)`; $('dim').style.opacity = (0.95 * ph).toFixed(3);
-  if (ph > 0.01) { drawWave($('pc'), t, 3.2, '#ff4d5e', { pad: 16, top: 16, bot: 26, marks: true, lw: 4 }); const hb = 1 + 0.14 * beat(t); $('heartPath').parentNode.style.transform = `scale(${hb})`; }
-  // faint drifting watermark (rule 15)
+  $('phone').style.opacity = ph.toFixed(3); $('phone').style.transform = `translateY(${(1 - ph) * 60}px)`;
+  if (ph > 0.01) { drawPhoneWave(t); document.querySelector('#phone .heart').style.transform = `scale(${1 + 0.14 * beat(t)})`; }
   const wx = 140 + (t * 23) % 620, wy = 700 + 160 * Math.sin(t * 0.21); $('wm2').style.transform = `translate(${wx}px, ${wy}px) rotate(-12deg)`;
   return true;
 }
